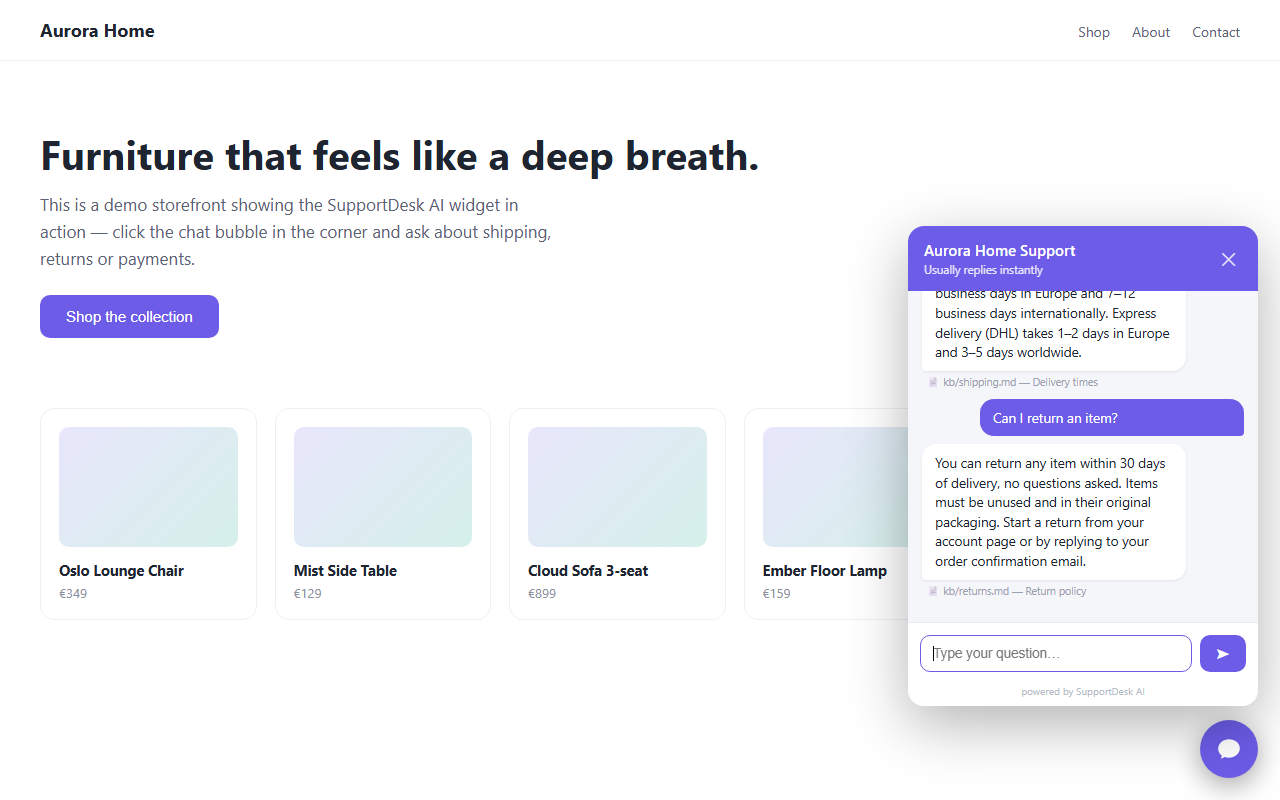
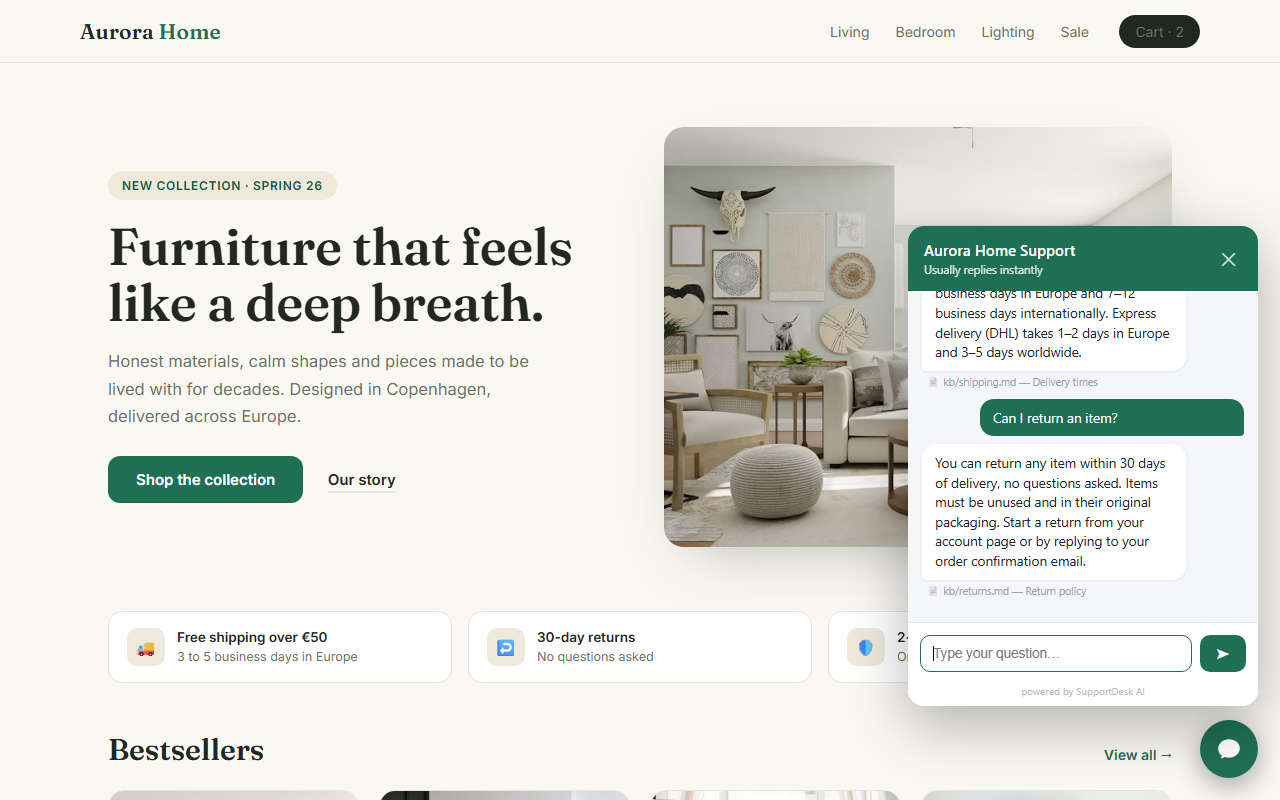
Humanized copy, repo links on all cases, Rick Assistant v2 case, polished SupportDesk demo shot

diff --git a/index.html b/index.html
@@ -3,8 +3,8 @@
 <head>
 <meta charset="UTF-8">
 <meta name="viewport" content="width=device-width, initial-scale=1.0">
-<title>Vadim Melnic — Full-Stack Developer</title>
-<meta name="description" content="Vadim Melnic — Full-stack developer specializing in Telegram Mini Apps, Python automation and interactive dashboards.">
+<title>Vadim Melnic | Full-Stack Developer</title>
+<meta name="description" content="Vadim Melnic, full-stack developer specializing in Telegram Mini Apps, Python automation and interactive dashboards.">
 <link rel="preconnect" href="https://fonts.googleapis.com">
 <link href="https://fonts.googleapis.com/css2?family=Unbounded:wght@500;700;900&family=Space+Grotesk:wght@300;400;500;600&family=JetBrains+Mono:wght@400;500;700&display=swap" rel="stylesheet">
 <script src="https://cdn.tailwindcss.com"></script>
@@ -172,13 +172,13 @@
 <section id="top" class="bg-grid min-h-screen flex items-center relative pt-32 pb-20 px-6">
   <div class="max-w-5xl mx-auto w-full grid lg:grid-cols-2 gap-12 items-center">
     <div>
-      <p class="reveal section-tag mb-4">// full-stack developer — available for freelance</p>
+      <p class="reveal section-tag mb-4">// full-stack developer · available for freelance</p>
       <h1 class="reveal font-display font-black text-4xl sm:text-6xl leading-tight mb-6">
         <span class="glitch">Vadim</span><br><span class="glitch accent-pink">Melnic</span>
       </h1>
       <p class="reveal text-lg text-[var(--muted)] max-w-md mb-8 leading-relaxed">
         I build <span class="text-white">Telegram Mini Apps</span>, <span class="text-white">Python automation</span>
-        and <span class="text-white">live dashboards</span> — from visual concept to shipped product.
+        and <span class="text-white">live dashboards</span>, from visual concept to shipped product.
       </p>
       <div class="reveal flex flex-wrap gap-4">
         <a href="#work" class="btn-primary font-medium px-6 py-3 rounded-lg transition-all duration-200 cursor-pointer">View work</a>
@@ -190,7 +190,7 @@
     <div class="reveal terminal">
       <div class="terminal-bar">
         <i style="background:#FF5F57"></i><i style="background:#FEBC2E"></i><i style="background:#28C840"></i>
-        <span class="ml-2 text-[var(--muted)] text-xs">vadim@dev — zsh</span>
+        <span class="ml-2 text-[var(--muted)] text-xs">vadim@dev · zsh</span>
       </div>
       <div class="t-body" id="term"></div>
     </div>
@@ -211,22 +211,23 @@
 <section id="about" class="py-24 px-6 border-t border-white/5">
   <div class="max-w-5xl mx-auto grid md:grid-cols-3 gap-10">
     <div>
-      <p class="section-tag mb-3">// 01 — about</p>
+      <p class="section-tag mb-3">// 01 · about</p>
       <h2 class="font-display text-2xl font-bold">Who I am</h2>
     </div>
     <div class="md:col-span-2 text-[var(--muted)] leading-relaxed space-y-4 text-lg">
       <p>
-        I'm Vadim Melnic, a self-taught full-stack developer who owns projects end to end —
-        visual concept, art direction, and the working build. One person accountable for the
-        final result, not a relay race.
+        I'm Vadim Melnic, a self-taught full-stack developer who owns projects end to end.
+        Visual concept, art direction and the working build, with one person accountable
+        for the final result instead of a relay race.
       </p>
       <p>
-        My signature: dark neon interfaces — <span class="accent-pink">pink</span> &amp; <span class="accent-cyan">cyan</span> —
-        engineered to stay fast on low-end devices. That matters for Telegram WebViews,
-        where most of my work lives.
+        I care a lot about interfaces that stay fast on low-end devices. That matters for
+        Telegram WebViews, where a lot of my work lives, and it shapes everything from
+        asset budgets to animation choices.
       </p>
       <p>
-        Currently open for freelance on Fiverr and Upwork: mini apps, automation scripts, dashboards.
+        Currently open for freelance on Fiverr and Upwork: mini apps, automation scripts,
+        dashboards and websites.
       </p>
     </div>
   </div>
@@ -235,32 +236,32 @@
 <!-- SERVICES -->
 <section id="services" class="py-24 px-6 border-t border-white/5">
   <div class="max-w-5xl mx-auto">
-    <p class="section-tag mb-3">// 02 — services</p>
+    <p class="section-tag mb-3">// 02 · services</p>
     <h2 class="font-display text-2xl font-bold mb-12">What I can build for you</h2>
     <div class="grid sm:grid-cols-2 gap-6">
 
       <div class="card rounded-xl p-6">
         <svg class="w-8 h-8 mb-4" style="color:var(--cyan)" viewBox="0 0 24 24" fill="none" stroke="currentColor" stroke-width="1.7"><rect x="3" y="4" width="18" height="16" rx="2"/><path d="M3 9h18"/><path d="M8 14h.01M12 14h.01M16 14h.01"/></svg>
         <h3 class="font-display text-base font-bold mb-2">Telegram Mini Apps &amp; Games</h3>
-        <p class="text-[var(--muted)] text-sm leading-relaxed">Interactive TMAs with Telegram SDK, Three.js/PixiJS rendering, haptics — 60fps even on budget phones.</p>
+        <p class="text-[var(--muted)] text-sm leading-relaxed">Interactive TMAs with Telegram SDK, Three.js/PixiJS rendering, haptics, running at 60fps even on budget phones.</p>
       </div>
 
       <div class="card rounded-xl p-6">
         <svg class="w-8 h-8 mb-4" style="color:var(--cyan)" viewBox="0 0 24 24" fill="none" stroke="currentColor" stroke-width="1.7"><path d="M4 17l6-5-6-5"/><path d="M12 19h8"/></svg>
         <h3 class="font-display text-base font-bold mb-2">Python Automation &amp; AI</h3>
-        <p class="text-[var(--muted)] text-sm leading-relaxed">Automation scripts, CLI assistants and AI chatbot integrations (Claude API, retrieval-grounded) — documented, extensible per client.</p>
+        <p class="text-[var(--muted)] text-sm leading-relaxed">Automation scripts, CLI assistants and AI chatbots grounded in your own data. Documented and easy to extend per client.</p>
       </div>
 
       <div class="card rounded-xl p-6">
         <svg class="w-8 h-8 mb-4" style="color:var(--cyan)" viewBox="0 0 24 24" fill="none" stroke="currentColor" stroke-width="1.7"><path d="M3 3v18h18"/><path d="M7 14l4-4 3 3 5-6"/></svg>
         <h3 class="font-display text-base font-bold mb-2">Live Dashboards</h3>
-        <p class="text-[var(--muted)] text-sm leading-relaxed">Real-time dashboards with animated charts — single-file, no backend required. See the live demo below.</p>
+        <p class="text-[var(--muted)] text-sm leading-relaxed">Real-time dashboards with animated charts. Single file, no backend required. See the live demo below.</p>
       </div>
 
       <div class="card rounded-xl p-6">
         <svg class="w-8 h-8 mb-4" style="color:var(--cyan)" viewBox="0 0 24 24" fill="none" stroke="currentColor" stroke-width="1.7"><circle cx="12" cy="12" r="9"/><path d="M12 3a9 9 0 0 1 0 18"/></svg>
         <h3 class="font-display text-base font-bold mb-2">UI/UX &amp; Motion</h3>
-        <p class="text-[var(--muted)] text-sm leading-relaxed">Neon visual identities with purposeful micro-animations — Anime.js/GSAP, always respecting reduced-motion.</p>
+        <p class="text-[var(--muted)] text-sm leading-relaxed">Neon visual identities with purposeful micro-animations, built with Anime.js or GSAP and always respecting reduced motion.</p>
       </div>
 
     </div>
@@ -270,7 +271,7 @@
 <!-- CASE STUDIES -->
 <section id="work" class="py-24 px-6 border-t border-white/5">
   <div class="max-w-5xl mx-auto">
-    <p class="section-tag mb-3">// 03 — selected work</p>
+    <p class="section-tag mb-3">// 03 · selected work</p>
     <h2 class="font-display text-2xl font-bold mb-2">Case studies</h2>
     <p class="text-[var(--muted)] mb-12 max-w-2xl">Self-directed projects built to sharpen and demonstrate my stack.</p>
 
@@ -281,16 +282,16 @@
         <div class="grid md:grid-cols-2 gap-10 items-center mb-8">
           <div class="flex justify-center">
             <div style="max-width:300px">
-              <img src="assets/dropfix-app.webp" alt="DROPFIX mining app — DFX token live price chart, mining hall with 8 animated GPU rigs, active mining timer, 828 users online" class="shot" loading="lazy">
-              <p class="cap">player app — dfx token · mining hall · live price</p>
+              <img src="assets/dropfix-app.webp" alt="DROPFIX mining app: DFX token live price chart, mining hall with 8 animated GPU rigs, active mining timer, 828 users online" class="shot" loading="lazy">
+              <p class="cap">player app · dfx token · mining hall · live price</p>
             </div>
           </div>
           <div>
-            <span class="chip px-3 py-1 rounded inline-block mb-4" style="border-color:rgba(255,46,136,.5); color:var(--pink)">featured — full product</span>
-            <h3 class="font-display text-xl font-bold mb-3">DROPFIX — Crypto Mining Platform</h3>
+            <span class="chip px-3 py-1 rounded inline-block mb-4" style="border-color:rgba(255,46,136,.5); color:var(--pink)">featured · full product</span>
+            <h3 class="font-display text-xl font-bold mb-3">DROPFIX: Crypto Mining Platform</h3>
             <p class="text-[var(--muted)] leading-relaxed mb-4">
               <span class="text-white">Challenge:</span> build a complete play-to-earn mining platform as a
-              Telegram Mini App — not just the game, but the token economy, real crypto payment rails and
+              Telegram Mini App. Not just the game, but the token economy, real crypto payment rails and
               the operations tools behind it.
             </p>
             <p class="text-[var(--muted)] leading-relaxed mb-5">
@@ -299,7 +300,7 @@
               a mining hall of tiered animated GPU rigs, real <span class="text-white">BTC / LTC / USDT
               deposits &amp; withdrawals</span> (TRC20 &amp; BEP20, per-user QR addresses), and a
               wheel-of-fortune with purchasable spin credits.
-              <span class="text-white">Operator side:</span> a full admin console — role management,
+              <span class="text-white">Operator side:</span> a full admin console: role management,
               withdrawal review queue, user broadcast, audit log, SQL runner and revenue analytics.
             </p>
             <div class="flex flex-wrap gap-2 mb-5">
@@ -309,7 +310,7 @@
               <span class="chip px-3 py-1 rounded">admin-console</span>
               <span class="chip px-3 py-1 rounded">full-stack</span>
             </div>
-            <a href="https://github.com/niktofy" class="gh-link">↗ github.com/niktofy</a>
+            <a href="https://github.com/niktofy/dropfix" class="gh-link">↗ github.com/niktofy/dropfix</a>
           </div>
         </div>
 
@@ -323,22 +324,22 @@
           <div class="gallery-inner">
           <div class="grid sm:grid-cols-2 gap-4 mb-4 pt-4">
             <div>
-              <img src="assets/dropfix-admin.webp" alt="DROPFIX admin console — user stats, DF balance, active miners, deposits and withdrawals, manager role management, crypto balance crediting" class="shot" loading="lazy">
-              <p class="cap">admin console — roles · balances · withdrawal review</p>
+              <img src="assets/dropfix-admin.webp" alt="DROPFIX admin console: user stats, DF balance, active miners, deposits and withdrawals, manager role management, crypto balance crediting" class="shot" loading="lazy">
+              <p class="cap">admin console · roles · balances · withdrawal review</p>
             </div>
             <div>
-              <img src="assets/dropfix-charts.webp" alt="DROPFIX admin analytics — deposit and withdrawal charts, new users, activity summary" class="shot" loading="lazy">
-              <p class="cap">analytics — deposits · withdrawals · user growth</p>
+              <img src="assets/dropfix-charts.webp" alt="DROPFIX admin analytics: deposit and withdrawal charts, new users, activity summary" class="shot" loading="lazy">
+              <p class="cap">analytics · deposits · withdrawals · user growth</p>
             </div>
           </div>
           <div class="grid grid-cols-2 gap-4 max-w-md mx-auto">
             <div>
-              <img src="assets/dropfix-deposit.webp" alt="DROPFIX deposit flow — BTC, LTC, USDT with TRC20 and BEP20 networks, QR code and unique deposit address" class="shot" loading="lazy">
-              <p class="cap">real deposits — trc20/bep20 + qr</p>
+              <img src="assets/dropfix-deposit.webp" alt="DROPFIX deposit flow: BTC, LTC, USDT with TRC20 and BEP20 networks, QR code and unique deposit address" class="shot" loading="lazy">
+              <p class="cap">real deposits · trc20/bep20 + qr</p>
             </div>
             <div>
-              <img src="assets/dropfix-wheel.webp" alt="DROPFIX wheel of fortune — spin rewards with DFX prizes, boosts and purchasable spin credits" class="shot" loading="lazy">
-              <p class="cap">wheel of fortune — monetized spins</p>
+              <img src="assets/dropfix-wheel.webp" alt="DROPFIX wheel of fortune: spin rewards with DFX prizes, boosts and purchasable spin credits" class="shot" loading="lazy">
+              <p class="cap">wheel of fortune · monetized spins</p>
             </div>
           </div>
           </div>
@@ -348,17 +349,17 @@
       <!-- Case Study 2: Focus Quest -->
       <div class="grid md:grid-cols-2 gap-10 items-center">
         <div class="md:order-2">
-          <img src="assets/focusquest.png" alt="Focus Quest — gamified productivity desktop app: XP and HP bars, weekly boss with health bar, quest list" class="shot" loading="lazy">
+          <img src="assets/focusquest.png" alt="Focus Quest, gamified productivity desktop app: XP and HP bars, weekly boss with health bar, quest list" class="shot" loading="lazy">
         </div>
         <div class="md:order-1">
-          <span class="chip px-3 py-1 rounded inline-block mb-4">desktop_app — shipped</span>
-          <h3 class="font-display text-xl font-bold mb-3">Focus Quest — Gamified Productivity App</h3>
+          <span class="chip px-3 py-1 rounded inline-block mb-4">desktop_app · shipped</span>
+          <h3 class="font-display text-xl font-bold mb-3">Focus Quest: Gamified Productivity App</h3>
           <p class="text-[var(--muted)] leading-relaxed mb-4">
-            <span class="text-white">Challenge:</span> task managers feel flat and don't motivate follow-through —
+            <span class="text-white">Challenge:</span> task managers feel flat and don't motivate follow-through,
             so I turned productivity into an RPG.
           </p>
           <p class="text-[var(--muted)] leading-relaxed mb-5">
-            <span class="text-white">Result:</span> a full native desktop app — XP &amp; HP system, weekly boss
+            <span class="text-white">Result:</span> a full native desktop app: XP &amp; HP system, weekly boss
             fights, skill tree, streaks, focus timer, voice commands and system-tray integration.
             Django backend + PyWebView native shell.
           </p>
@@ -369,29 +370,29 @@
             <span class="chip px-3 py-1 rounded">speech-recognition</span>
             <span class="chip px-3 py-1 rounded">gamification</span>
           </div>
-          <a href="https://github.com/niktofy" class="gh-link">↗ github.com/niktofy</a>
+          <a href="https://github.com/niktofy/focus-quest" class="gh-link">↗ github.com/niktofy/focus-quest</a>
         </div>
       </div>
 
       <!-- Case Study 3: NeonHUD -->
       <div class="grid md:grid-cols-2 gap-10 items-center">
         <div>
-          <img src="assets/neonhud-v3.png" alt="NeonHUD — interactive crypto dashboard: coin selector cards, 24H/7D/30D timeframes, search, watchlist stars and 7-day sparklines for ten coins, USD converter" class="shot" loading="lazy">
+          <img src="assets/neonhud-v3.png" alt="NeonHUD, interactive crypto dashboard: coin selector cards, 24H/7D/30D timeframes, search, watchlist stars and 7-day sparklines for ten coins, USD converter" class="shot" loading="lazy">
           <p class="cap">10 coins · timeframes · watchlist · sparklines · converter</p>
         </div>
         <div>
-          <span class="chip px-3 py-1 rounded inline-block mb-4">live_app — real data</span>
-          <h3 class="font-display text-xl font-bold mb-3">NeonHUD — Interactive Crypto Markets App</h3>
+          <span class="chip px-3 py-1 rounded inline-block mb-4">live_app · real data</span>
+          <h3 class="font-display text-xl font-bold mb-3">NeonHUD: Interactive Crypto Markets App</h3>
           <p class="text-[var(--muted)] leading-relaxed mb-4">
             <span class="text-white">Challenge:</span> a full trading-desk experience on
-            <span class="text-white">real market data</span> — interactive, stateful, fast — from a single
+            <span class="text-white">real market data</span>: interactive, stateful and fast, from a single
             HTML file with no backend.
           </p>
           <p class="text-[var(--muted)] leading-relaxed mb-5">
             <span class="text-white">Result:</span> 10 live coins from the CoinGecko API with
             <span class="text-white">click-to-chart selection, 24H/7D/30D timeframes, search, sortable
             columns, 7-day sparklines per coin, a persistent ★ watchlist (localStorage) and a live USD ⇄
-            coin converter</span> — plus graceful simulated fallback when the API is unreachable.
+            coin converter</span>, plus graceful simulated fallback when the API is unreachable.
           </p>
           <div class="flex flex-wrap gap-2 mb-5">
             <span class="chip px-3 py-1 rounded">rest-api</span>
@@ -407,25 +408,25 @@
       <!-- Case Study 4: SupportDesk AI -->
       <div class="grid md:grid-cols-2 gap-10 items-center">
         <div class="md:order-2">
-          <img src="assets/supportdesk.png" alt="SupportDesk AI chat widget on a demo furniture store — real conversation with answers citing their knowledge-base sources" class="shot" loading="lazy">
-          <p class="cap">live conversation — every answer cites its source doc</p>
+          <img src="assets/supportdesk.png" alt="SupportDesk AI chat widget on a demo furniture store, real conversation with answers citing their knowledge-base sources" class="shot" loading="lazy">
+          <p class="cap">live conversation · every answer cites its source doc</p>
         </div>
         <div class="md:order-1">
-          <span class="chip px-3 py-1 rounded inline-block mb-4" style="border-color:rgba(0,229,255,.5); color:var(--cyan)">ai — open source</span>
-          <h3 class="font-display text-xl font-bold mb-3">SupportDesk AI — Support Chatbot Widget</h3>
+          <span class="chip px-3 py-1 rounded inline-block mb-4" style="border-color:rgba(0,229,255,.5); color:var(--cyan)">ai · open source</span>
+          <h3 class="font-display text-xl font-bold mb-3">SupportDesk AI: Support Chatbot Widget</h3>
           <p class="text-[var(--muted)] leading-relaxed mb-4">
             <span class="text-white">Challenge:</span> businesses want an AI support chat on their site, but
-            pure-LLM bots hallucinate prices and policies — a real liability.
+            pure-LLM bots hallucinate prices and policies, and that is a real liability.
           </p>
           <p class="text-[var(--muted)] leading-relaxed mb-5">
             <span class="text-white">Result:</span> an embeddable chat widget with a
             <span class="text-white">retrieval-grounded brain</span>: it indexes the client's own docs and
-            every answer cites its source. Optional Claude AI mode composes replies strictly from retrieved
+            every answer cites its source. An optional AI mode composes replies strictly from retrieved
             context, with automatic fallback. Two-line embed on any site, brandable, zero dependencies.
           </p>
           <div class="flex flex-wrap gap-2 mb-5">
             <span class="chip px-3 py-1 rounded">python</span>
-            <span class="chip px-3 py-1 rounded">claude-api</span>
+            <span class="chip px-3 py-1 rounded">llm-api</span>
             <span class="chip px-3 py-1 rounded">rag / retrieval</span>
             <span class="chip px-3 py-1 rounded">embeddable-widget</span>
           </div>
@@ -436,21 +437,21 @@
       <!-- Case Study 5: This Website -->
       <div class="grid md:grid-cols-2 gap-10 items-center">
         <div>
-          <img src="assets/website.png" alt="This portfolio website — neon terminal hero with animated typing, custom design system" class="shot" loading="lazy">
-          <p class="cap">you're looking at it — designed & built from scratch</p>
+          <img src="assets/website.png" alt="This portfolio website, neon terminal hero with animated typing, custom design system" class="shot" loading="lazy">
+          <p class="cap">you're looking at it · designed & built from scratch</p>
         </div>
         <div>
-          <span class="chip px-3 py-1 rounded inline-block mb-4">web_design — live</span>
-          <h3 class="font-display text-xl font-bold mb-3">This Website — Custom Portfolio Site</h3>
+          <span class="chip px-3 py-1 rounded inline-block mb-4">web_design · live</span>
+          <h3 class="font-display text-xl font-bold mb-3">This Website: Custom Portfolio Site</h3>
           <p class="text-[var(--muted)] leading-relaxed mb-4">
             <span class="text-white">Challenge:</span> stand out among template portfolios with a fully
-            custom identity — designed, built and shipped without any site builder.
+            custom identity, designed, built and shipped without any site builder.
           </p>
           <p class="text-[var(--muted)] leading-relaxed mb-5">
             <span class="text-white">Result:</span> a complete design system (Unbounded / Space Grotesk /
             JetBrains Mono, neon pink &amp; cyan), an animated terminal hero, scroll-reveal motion that
             respects <span class="font-mono text-sm">prefers-reduced-motion</span>, responsive from 375px up,
-            optimized WebP images — one HTML file, no build step, deployed via GitHub Actions.
+            optimized WebP images. One HTML file, no build step, deployed via GitHub Actions.
             I build landing pages and sites like this for clients.
           </p>
           <div class="flex flex-wrap gap-2 mb-5">
@@ -464,34 +465,33 @@
         </div>
       </div>
 
-      <!-- Case Study 3 -->
+      <!-- Case Study: Rick Assistant v2 -->
       <div class="grid md:grid-cols-2 gap-10 items-center">
-        <div class="mockup h-64 sm:h-80">
-          <div class="relative z-10 h-full p-6 font-mono text-xs leading-relaxed overflow-hidden" style="color:var(--cyan)">
-            <p><span class="t-prompt">$</span> rick_assistant --status</p>
-            <p class="text-[var(--muted)]">scanning tasks...</p>
-            <p class="text-[var(--muted)]">3 automations queued</p>
-            <p><span class="t-prompt">$</span> running cleanup.py <span class="t-ok">✓</span></p>
-            <p><span class="t-prompt">$</span> running report_gen.py <span class="t-ok">✓</span></p>
-            <p class="text-white">done in 1.2s</p>
-          </div>
+        <div>
+          <img src="assets/rick.png" alt="Rick Assistant desktop app: command sidebar, argument form with dry-run toggle, terminal-style output console" class="shot" loading="lazy">
+          <p class="cap">6 commands · dry-run by default · plug-in architecture</p>
         </div>
         <div>
-          <span class="chip px-3 py-1 rounded inline-block mb-4">personal_project</span>
-          <h3 class="font-display text-xl font-bold mb-3">Rick Assistant — Python Automation</h3>
+          <span class="chip px-3 py-1 rounded inline-block mb-4">desktop_app · open source</span>
+          <h3 class="font-display text-xl font-bold mb-3">Rick Assistant: Desktop Automation App</h3>
           <p class="text-[var(--muted)] leading-relaxed mb-4">
-            <span class="text-white">Challenge:</span> reduce hours lost to repetitive manual tasks in a daily dev workflow.
+            <span class="text-white">Challenge:</span> hours leak away on repetitive computer chores like messy
+            download folders, old temp files and manual renaming.
           </p>
           <p class="text-[var(--muted)] leading-relaxed mb-5">
-            <span class="text-white">Result:</span> a modular CLI assistant — each automation is a plug-in module,
-            so client-specific commands drop in without touching the core.
+            <span class="text-white">Result:</span> a desktop assistant with a full GUI and six built-in
+            commands: organize downloads, clean temp, batch rename, disk report, quick notes and system info.
+            Every destructive action previews as a dry run first. New client-specific commands drop in as
+            single functions, and everything also works from the terminal.
           </p>
           <div class="flex flex-wrap gap-2 mb-5">
             <span class="chip px-3 py-1 rounded">python</span>
+            <span class="chip px-3 py-1 rounded">pywebview</span>
+            <span class="chip px-3 py-1 rounded">gui</span>
             <span class="chip px-3 py-1 rounded">automation</span>
-            <span class="chip px-3 py-1 rounded">cli-tools</span>
+            <span class="chip px-3 py-1 rounded">plugin-system</span>
           </div>
-          <a href="https://github.com/niktofy" class="gh-link">↗ github.com/niktofy</a>
+          <a href="https://github.com/niktofy/rick-assistant" class="gh-link">↗ github.com/niktofy/rick-assistant</a>
         </div>
       </div>
 
@@ -502,7 +502,7 @@
 <!-- SKILLS -->
 <section id="skills" class="py-24 px-6 border-t border-white/5">
   <div class="max-w-5xl mx-auto">
-    <p class="section-tag mb-3">// 04 — skills</p>
+    <p class="section-tag mb-3">// 04 · skills</p>
     <h2 class="font-display text-2xl font-bold mb-12">Tools I work with</h2>
     <div class="flex flex-wrap gap-3">
       <span class="chip px-4 py-2 rounded text-sm">python</span>
@@ -523,10 +523,10 @@
 <!-- CONTACT -->
 <section id="contact" class="py-28 px-6 border-t border-white/5 bg-grid">
   <div class="max-w-3xl mx-auto text-center">
-    <p class="section-tag mb-3">// 05 — contact</p>
+    <p class="section-tag mb-3">// 05 · contact</p>
     <h2 class="font-display text-2xl sm:text-3xl font-bold mb-6">Let's build something</h2>
     <p class="text-[var(--muted)] mb-10 max-w-xl mx-auto leading-relaxed">
-      Open for freelance — Telegram Mini Apps, Python automation, dashboards.
+      Open for freelance: Telegram Mini Apps, Python automation, dashboards and websites.
       Free scoping, fixed quotes, response within 24h.
     </p>
     <div class="flex flex-wrap justify-center gap-4">
@@ -537,7 +537,7 @@
 </section>
 
 <footer class="py-8 px-6 text-center font-mono text-xs text-[var(--muted)] border-t border-white/5">
-  © <span id="year"></span> vadim.melnic — built with care, one neon pixel at a time_
+  © <span id="year"></span> vadim.melnic · built with care, one neon pixel at a time_
 </footer>
 
 <script>
@@ -560,9 +560,9 @@
   // --- terminal typing loop ---
   const term = document.getElementById('term');
   const script = [
-    {cmd: 'whoami', out: ['vadim.melnic — full-stack developer']},
+    {cmd: 'whoami', out: ['vadim.melnic · full-stack developer']},
     {cmd: 'vadim build --type telegram-mini-app', out: ['<span class="t-ok">✓</span> shipped: crypto mining simulator']},
-    {cmd: 'vadim build --type dashboard --live', out: ['<span class="t-ok">✓</span> shipped: neonhud — real-time ops']},
+    {cmd: 'vadim build --type dashboard --live', out: ['<span class="t-ok">✓</span> shipped: neonhud · real-time ops']},
     {cmd: 'vadim automate --lang python --ai', out: ['<span class="t-ok">✓</span> shipped: supportdesk-ai, rick assistant']},
     {cmd: 'vadim hire --response-time', out: ['&lt; 24 hours. <span class="t-ok">available now.</span>']},
   ];